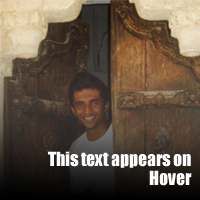
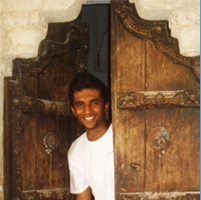
added flip

diff --git a/thumb.html b/thumb.html
@@ -1,14 +1,14 @@
 <html>
 <head>
-<title>About | Balanarayanan </title>
+<title>Wishlist | Balanarayanan </title>
 
 <link rel="stylesheet" type="text/css" href="thumbs.css"/> 
 
-<link rel="stylesheet" type="text/css" href="animation.css"/>
-
+    <link rel="stylesheet" type="text/css" href="flip.css"/>
 
 </head>
 
+<body>
 <div id="arrows">
 
 
@@ -20,12 +20,12 @@
 
 <div id ="slidecover">
 <ul id="slides">
-<li><div id="slide1"><img src=images/slides/slide1.jpg ></div></li>
-<li><div id="slide2"><img src=images/slides/slide2.jpg ></div></li>
-<li><div id="slide3"><img src=images/slides/slide3.jpg ></div></li>
-<li><div id="slide4"><img src=images/slides/slide4.jpg ></div></li>
-<li><div id="slide5"><img src=images/slides/slide5.jpg ></div></li>
-<li><div id="slide6"><img src=images/slides/slide6.jpg ></div></li>
+<li><div id="slide1"><div class="container"><div class="card"><div class="face front"><img src=images/slides/slide1.jpg /></div><div class="face back"><h2>Me</h2><p>This is ME. :D </p></div></div></div></li>
+<li><div id="slide2"><div class="container"><div class="card"><div class="face front"><img src=images/slides/slide2.jpg /></div><div class="face back"><h2>Me</h2><p>This is Lion. :D </p></div></div></div></li>
+<li><div id="slide3"><div class="container"><div class="card"><div class="face front"><img src=images/slides/slide3.jpg /></div><div class="face back"><h2>Me</h2><p>This is ME. :D </p></div></div></div></li>
+<li><div id="slide4"><div class="container"><div class="card"><div class="face front"><img src=images/slides/slide4.jpg /></div><div class="face back"><h2>Me</h2><p>This is ME. :D </p></div></div></div></li>
+<li><div id="slide5"><div class="container"><div class="card"><div class="face front"><img src=images/slides/slide5.jpg /></div><div class="face back"><h2>Me</h2><p>This is ME. :D </p></div></div></div></li>
+<li><div id="slide6"><div class="container"><div class="card"><div class="face front"><img src=images/slides/slide6.jpg /></div><div class="face back"><h2>Me</h2><p>This is ME. :D </p></div></div></div></li>
 </ul>
 </div>
 

diff --git a/thumbs2.css b/thumbs2.css
@@ -12,45 +12,44 @@ body{		width:960px;
 	height:76px;
 	margin: 0 auto;
 	top:250px;
+	z-index:5;
 	}
 #rbutton{float:right;}
 #lbutton{float:left;}
-#lbutton,#rbutton{
+#lbutton,#rbutton{z-index:5;
 	opacity:.3;
 	-webkit-transition: all 0.3s  linear;
 }
-#lbutton:hover,#rbutton:hover{-webkit-transition: all 0.3s  linear;
+#lbutton:hover,#rbutton:hover{
+	-webkit-transition: all 0.3s  linear;
 	opacity:1;}
 
 
-#slidecover{	top:100px;
-		position:relative;
-		left:0px;
+#slidecover{	position:absolute;
+		margin: 0 auto;
+		width:960px;
+		height:500px;
+		top:20px;
+		padding-left:80px;
+
 }
 		
 		
-#slides{
-	width:700px;
-	margin: 0 auto;
-
-}
 
 
 
-#slides li{float:left;
-	padding:5px;
-		-webkit-transition: all 0.3s  linear;
-}
 
 #slide1{-webkit-animation:slide1_animate 1s 1 !important;}
-#slide2{-webkit-animation:slide2_animate 1.8s 1;}
-#slide3{-webkit-animation:slide3_animate 1.4s 1;}
-#slide4{-webkit-animation:slide4_animate 1.6s 1;}
-#slide5{-webkit-animation:slide5_animate 1.1s 1;}
-#slide6{-webkit-animation:slide6_animate 2s 1;}
+#slide2{-webkit-animation:slide2_animate 1.8s 1 !important;}
+#slide3{-webkit-animation:slide3_animate 1.4s 1 !important;}
+#slide4{-webkit-animation:slide4_animate 1.6s 1 !important;}
+#slide5{-webkit-animation:slide5_animate 1.1s 1 !important;}
+#slide6{-webkit-animation:slide6_animate 2s 1 !important;}
 
-#slide1,#slide2,#slide3,#slide4,#slide5,#slide6{
 
+#container{
+	margin:30px;
+	float:left;
 	width:200px;
 	height:200px;
 	color:white;
@@ -65,6 +64,15 @@ body{		width:960px;
 }
 
 
+.one{
+		-webkit-transition: all 0.3s  ease-in ;
+		width:200px;
+		height:200px;
+}
+
+.one:hover {		-webkit-transition: all 0.3s  ease-in ;
+			-webkit-transform: scale(1.1);
+}
 
 
 @-webkit-keyframes slide1_animate{

diff --git a/about.css b/about.css
@@ -1,7 +1,9 @@
-#aboutbody{	width:960px;
-		height:auto;
-		margin: 0 auto;
+#aboutbody{	position:relative;
 		
+		height:auto;
+		width:960px;
+		margin 0px auto;
+		background-color:red;
 		
 }
 #slidecover{
@@ -23,6 +25,7 @@
 	padding:5px;
 }
 
+#slide1{background:url("images/slide1.png")0 0;}
 #slide2{background:url("images/slide2.png")0 0;}
 #slide3{background:url("images/slide1.png")0 0;}
 #slide4{background:url("images/slide2.png")0 0;}
@@ -33,7 +36,6 @@
 		width:200px;
 		height:200px;
 		color:white;
-		-webkit-transition: all 0.3s  linear;
 }
 
 #slide1:hover,#slide2:hover,#slide3:hover,#slide4:hover,#slide5:hover{
@@ -41,23 +43,6 @@
 	width:200px;
 	height:200px;
 	text-indent:0px;
-	-webkit-transition: all 0.3s  ease-in;
+	-webkit-transition: all 0.3s ease;
 
-}
-
-#slide1 .details{
-		position:absolute;
-		top:0;
-		left:0;
-		opacity: 0;
-		-webkit-transition: opacity;
-		-webkit-transition-timing-function: ease-out;
-		-webkit-transition-duration: 500ms;
-	}
-	
-	#slide1 .details:hover{
-		opacity: .9;
-		-webkit-transition: opacity;
-		-webkit-transition-timing-function: ease-out;
-		-webkit-transition-duration: 500ms;
 }

diff --git a/about.html b/about.html
@@ -1,33 +1,64 @@
+
 <html>
+
 <head>
+
 <title>About | Balanarayanan </title>
+
 <link rel="stylesheet" type="text/css" href="newnav.css"/> 
+
 <link rel="stylesheet" type="text/css" href="about.css"/> 
+
 <script type="text/javascript" src="js/jquery-1.6.4.js"></script>
+
 <script type="text/javascript" src="js/jquery.easing.1.3.js"></script>
+
 <script type="text/javascript" src="js/sprite.js"></script>
+
 </head>
+
 <body id="about">
+
 <div id="base" align="center">
+
 <div id="navback">
+
 <ul id="navigation">
+
 <li ><a class="home" href="index.html"></a></li>
+
 <li ><a class="about" href="about.html"></a></li>
+
 <li ><a class="contact" href="contact.html"></a></li>
+
 </ul>
+
 </div>
+
+
 
 <div id="aboutbody">
+
 <div id ="slidecover">
+
 <ul id="slides">
-<li><div id="slide1"><img src="images/slide.png"/><div class="details"><h3>Transformers</h3><p>More than meets the eye</p></div></div></li>
+
+<li><div id="slide1"></div></li>
 
 <li><div id="slide2"></div></li>
+
 <li><div id="slide3"></div></li>
+
 <li><div id="slide4"></div></li>
+
 <li><div id="slide5"></div></li>
+
 </ul>
+
 </div>
+
 </div>
+
 </body>
+
 </html>

diff --git a/thumb2.html b/thumb2.html
@@ -1,0 +1,32 @@
+<html>
+<head>
+<title>About | Balanarayanan </title>
+
+<link rel="stylesheet" type="text/css" href="thumbs2.css"/> 
+
+</head>
+
+<div id="arrows">
+
+
+<div id="lbutton"><img src=images/button_left.png>
+    </div>
+  <div id="rbutton"><img src=images/button_right.png>
+    </div> 
+ </div>
+
+<div id ="slidecover">
+
+<div id="slide1" ><div id="container" class="one"><img src=images/slides/slide1.jpg /></div></div>
+<div id="slide2" ><div id="container" class="one"><img src=images/slides/slide2.jpg /></div></div>
+<div id="slide3" ><div id="container" class="one"><img src=images/slides/slide3.jpg /></div></div>
+<div id="slide4" ><div id="container" class="one"><img src=images/slides/slide4.jpg /></div></div>
+<div id="slide5" ><div id="container" class="one"><img src=images/slides/slide5.jpg /></div></div>
+<div id="slide6" ><div id="container" class="one"><img src=images/slides/slide6.jpg /></div></div>
+
+</div>
+
+
+
+</body>
+</html>

diff --git a/flip.css b/flip.css
@@ -1,0 +1,36 @@
+
+body {
+	background: #3f3f3f url(images/wood-bg.png);
+	font-family: Helvetica, Arial, Sans-Serif;
+}
+
+.container {top:50%;
+		left:50%;
+	width: 201px; height: 201px;
+	-webkit-perspective: 1000;
+}
+
+.card {
+	width: 201px; height:201px;
+	-webkit-transform-style: preserve-3d;
+	-webkit-transition: 0.5s;
+}
+.container:hover .card {
+		-webkit-transform: rotateY(180deg);				
+	}
+.face {
+	position: absolute;
+	-webkit-backface-visibility: hidden;
+}
+
+.back {
+		width: 201px; height: 201px;
+		-webkit-transform: rotateY(180deg);
+		background-color:white;
+		color:black;
+	}
+
+
+.container:hover .front {
+	z-index: 0;
+} 

diff --git a/flip.html b/flip.html
@@ -1,0 +1,29 @@
+<!DOCTYPE html>
+
+<html>
+<head>
+    <title>Flip</title>
+    <link rel="stylesheet" type="text/css" href="flip.css"/>
+    <link rel="stylesheet" type="text/css" href="thumbs.css"/> 
+</head>
+
+<body>
+
+		<div class="card">
+<div class="face front">
+	<img src=images/slide.png />
+        
+</div>
+
+<div class="face back">
+	<h2>Me</h2>
+	<p>This is ME. :D </p>
+
+</div>
+		</div>
+	 	</div>
+    
+
+
+</body>
+</html>
